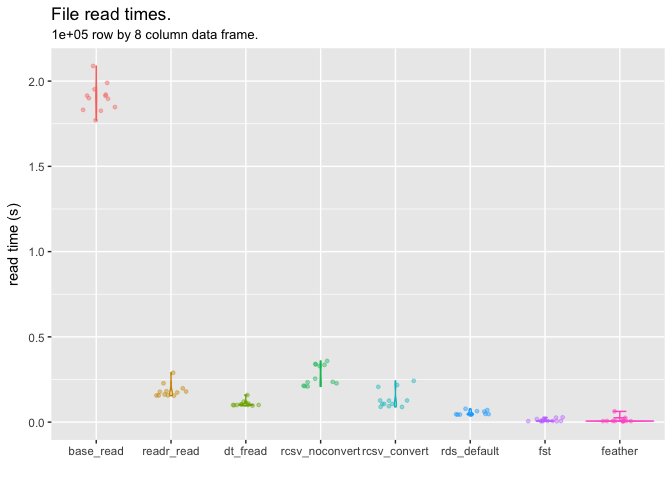
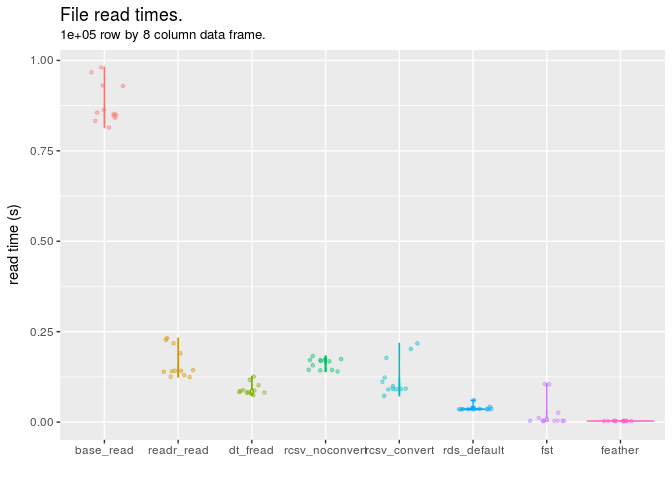
re-knit docs

diff --git a/README.md b/README.md
@@ -299,24 +299,24 @@ write.times <- microbenchmark::microbenchmark(
 )
 write.times
 #> Unit: milliseconds
-#>            expr         min         lq       mean     median         uq
-#>      base_write 2050.616581 2169.06049 2242.07429 2222.89481 2283.56690
-#>     readr_write 1782.745208 1929.53600 2014.14687 2027.13836 2121.32754
-#>       dt_fwrite   30.122020   33.28811   38.98628   36.03252   43.76402
-#>  rcsv_noconvert  644.743483  675.17439  710.75272  710.49990  747.81415
-#>    rcsv_convert   41.021875   43.87057   58.57046   47.63672   68.84932
-#>     rds_default  424.853882  431.81920  448.66197  451.48628  464.02057
-#>             fst    9.940724   10.44796   14.35584   12.15364   16.07817
-#>         feather    8.909940    9.53738   12.18169   10.72773   12.67195
-#>         max neval
-#>  2545.88775    12
-#>  2174.87142    12
-#>    54.99758    12
-#>   778.18107    12
-#>   126.99867    12
-#>   471.20674    12
-#>    29.43091    12
-#>    27.05626    12
+#>            expr         min          lq        mean      median
+#>      base_write 1443.225465 1502.656276 1578.110362 1553.346403
+#>     readr_write 1221.255362 1295.262282 1330.022583 1335.235287
+#>       dt_fwrite   15.916950   16.189959   35.281099   16.578532
+#>  rcsv_noconvert   56.250162   62.242014  106.617409   89.231216
+#>    rcsv_convert   23.792785   23.933099   37.223181   24.269112
+#>     rds_default  372.352141  374.994775  377.195577  377.804246
+#>             fst    3.809448    3.864523   15.420128    3.921533
+#>         feather    4.818591    4.872651    7.360614    4.940223
+#>           uq        max neval
+#>  1621.184513 1859.69566    12
+#>  1358.287101 1416.43248    12
+#>    26.054796  156.75417    12
+#>   141.602549  199.42766    12
+#>    36.268625  136.92847    12
+#>   379.183261  380.80144    12
+#>     6.135300   88.90081    12
+#>     5.782434   25.68775    12
 ```
 
 `write_rcsv` is built around the fantastic `data.table::fwrite` function, making it much faster than both `base::write.csv` and `readr::write_csv`. It even maintains relatively good performance compared with `data.table::fwrite`, but is slowed a little by the conversion processes and header writing steps.
@@ -375,24 +375,24 @@ read.times <- microbenchmark::microbenchmark(
 )
 read.times
 #> Unit: milliseconds
-#>            expr         min          lq       mean      median          uq
-#>       base_read 1770.199968 1839.583601 1904.31066 1907.045507 1936.387603
-#>      readr_read  155.231034  156.703759  184.56671  175.772007  189.621672
-#>        dt_fread   97.076331  100.207529  108.08245  101.725917  106.558531
-#>  rcsv_noconvert  209.311596  220.481310  274.10303  245.507979  336.954340
-#>    rcsv_convert   88.983317   99.754266  136.46583  116.356605  166.972832
-#>     rds_default   43.636243   44.873069   53.27304   46.751769   62.808681
-#>             fst    4.991276    5.964459   10.99024    6.730787   13.753967
-#>         feather    5.210306    5.734830   12.43495    6.304319    6.781458
+#>            expr        min         lq       mean     median         uq
+#>       base_read 814.308740 844.492948 880.434284 853.899882 930.306224
+#>      readr_read 124.591556 134.556925 162.925143 142.053381 204.145846
+#>        dt_fread  74.395278  81.236267  90.638950  84.762014  94.709424
+#>  rcsv_noconvert 139.979558 144.438235 161.397583 168.289216 171.503119
+#>    rcsv_convert  72.676689  91.212814 121.716011  95.867846 150.219459
+#>     rds_default  34.872713  35.532128  38.386559  35.718348  36.777367
+#>             fst   3.128357   3.194956  22.864712   3.618270  18.556116
+#>         feather   2.695026   2.775343   3.047929   2.925985   3.271799
 #>         max neval
-#>  2088.31212    12
-#>   289.55568    12
-#>   158.78637    12
-#>   358.57932    12
-#>   242.30296    12
-#>    78.20566    12
-#>    28.39620    12
-#>    63.10485    12
+#>  980.798262    12
+#>  231.952405    12
+#>  125.853915    12
+#>  182.611449    12
+#>  217.666965    12
+#>   60.383518    12
+#>  105.344794    12
+#>    3.879892    12
 ```
 
 ``` r
@@ -443,16 +443,16 @@ read.times.with.manipulations <- microbenchmark::microbenchmark(
 )
 read.times.with.manipulations
 #> Unit: milliseconds
-#>            expr        min         lq      mean     median        uq
-#>      readr_read  630.40776  651.25501  694.0291  681.01659  734.4557
-#>        dt_fread 2458.91582 2478.24915 2512.3559 2491.38298 2548.1720
-#>  rcsv_noconvert  209.28948  213.84355  223.1494  222.61162  230.9654
-#>    rcsv_convert   85.26303   90.16911  107.8706   97.16449  109.1036
-#>        max neval
-#>   786.9516    12
-#>  2598.5502    12
-#>   239.4585    12
-#>   215.2681    12
+#>            expr       min        lq      mean    median        uq      max
+#>      readr_read 489.54103 520.20777 548.47964 538.55969 591.32222 599.0410
+#>        dt_fread 490.54643 494.75862 520.39188 505.68648 516.50696 620.5011
+#>  rcsv_noconvert 139.40223 156.68906 184.14517 168.84559 213.25729 254.2323
+#>    rcsv_convert  72.26905  73.96774  93.80176  91.04462  94.15109 196.0591
+#>  neval
+#>     12
+#>     12
+#>     12
+#>     12
 ```
 
 ``` r
